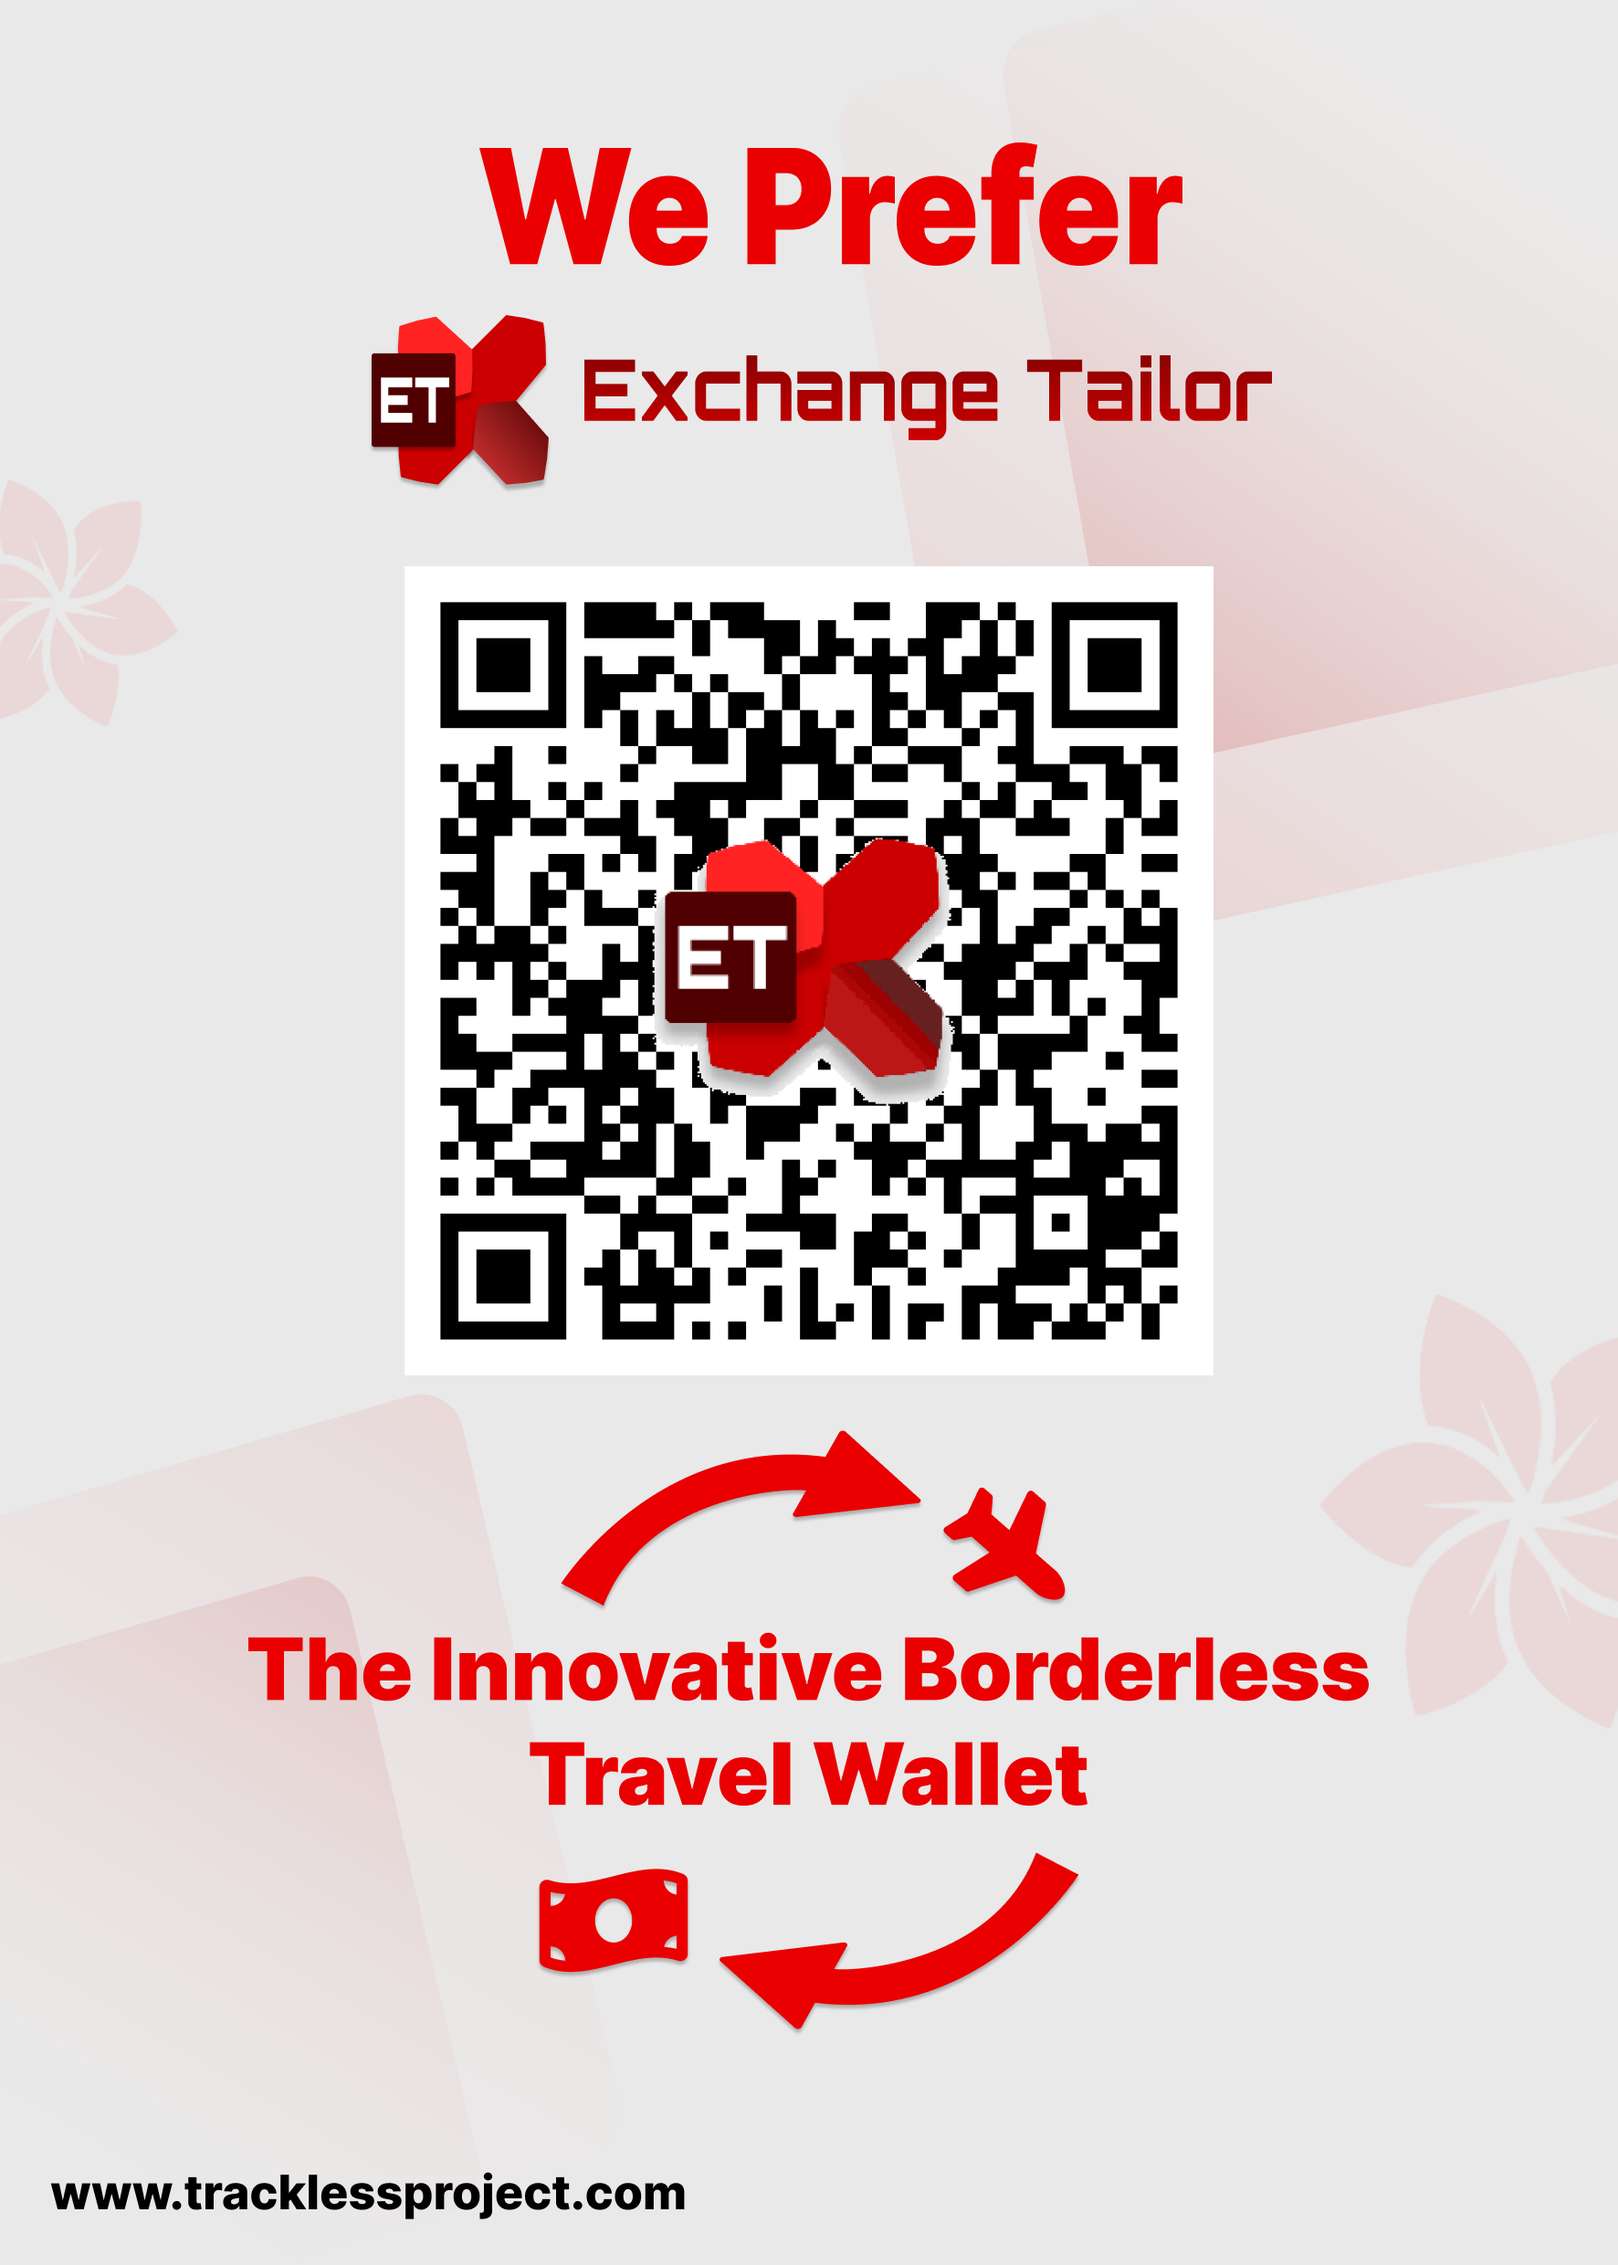
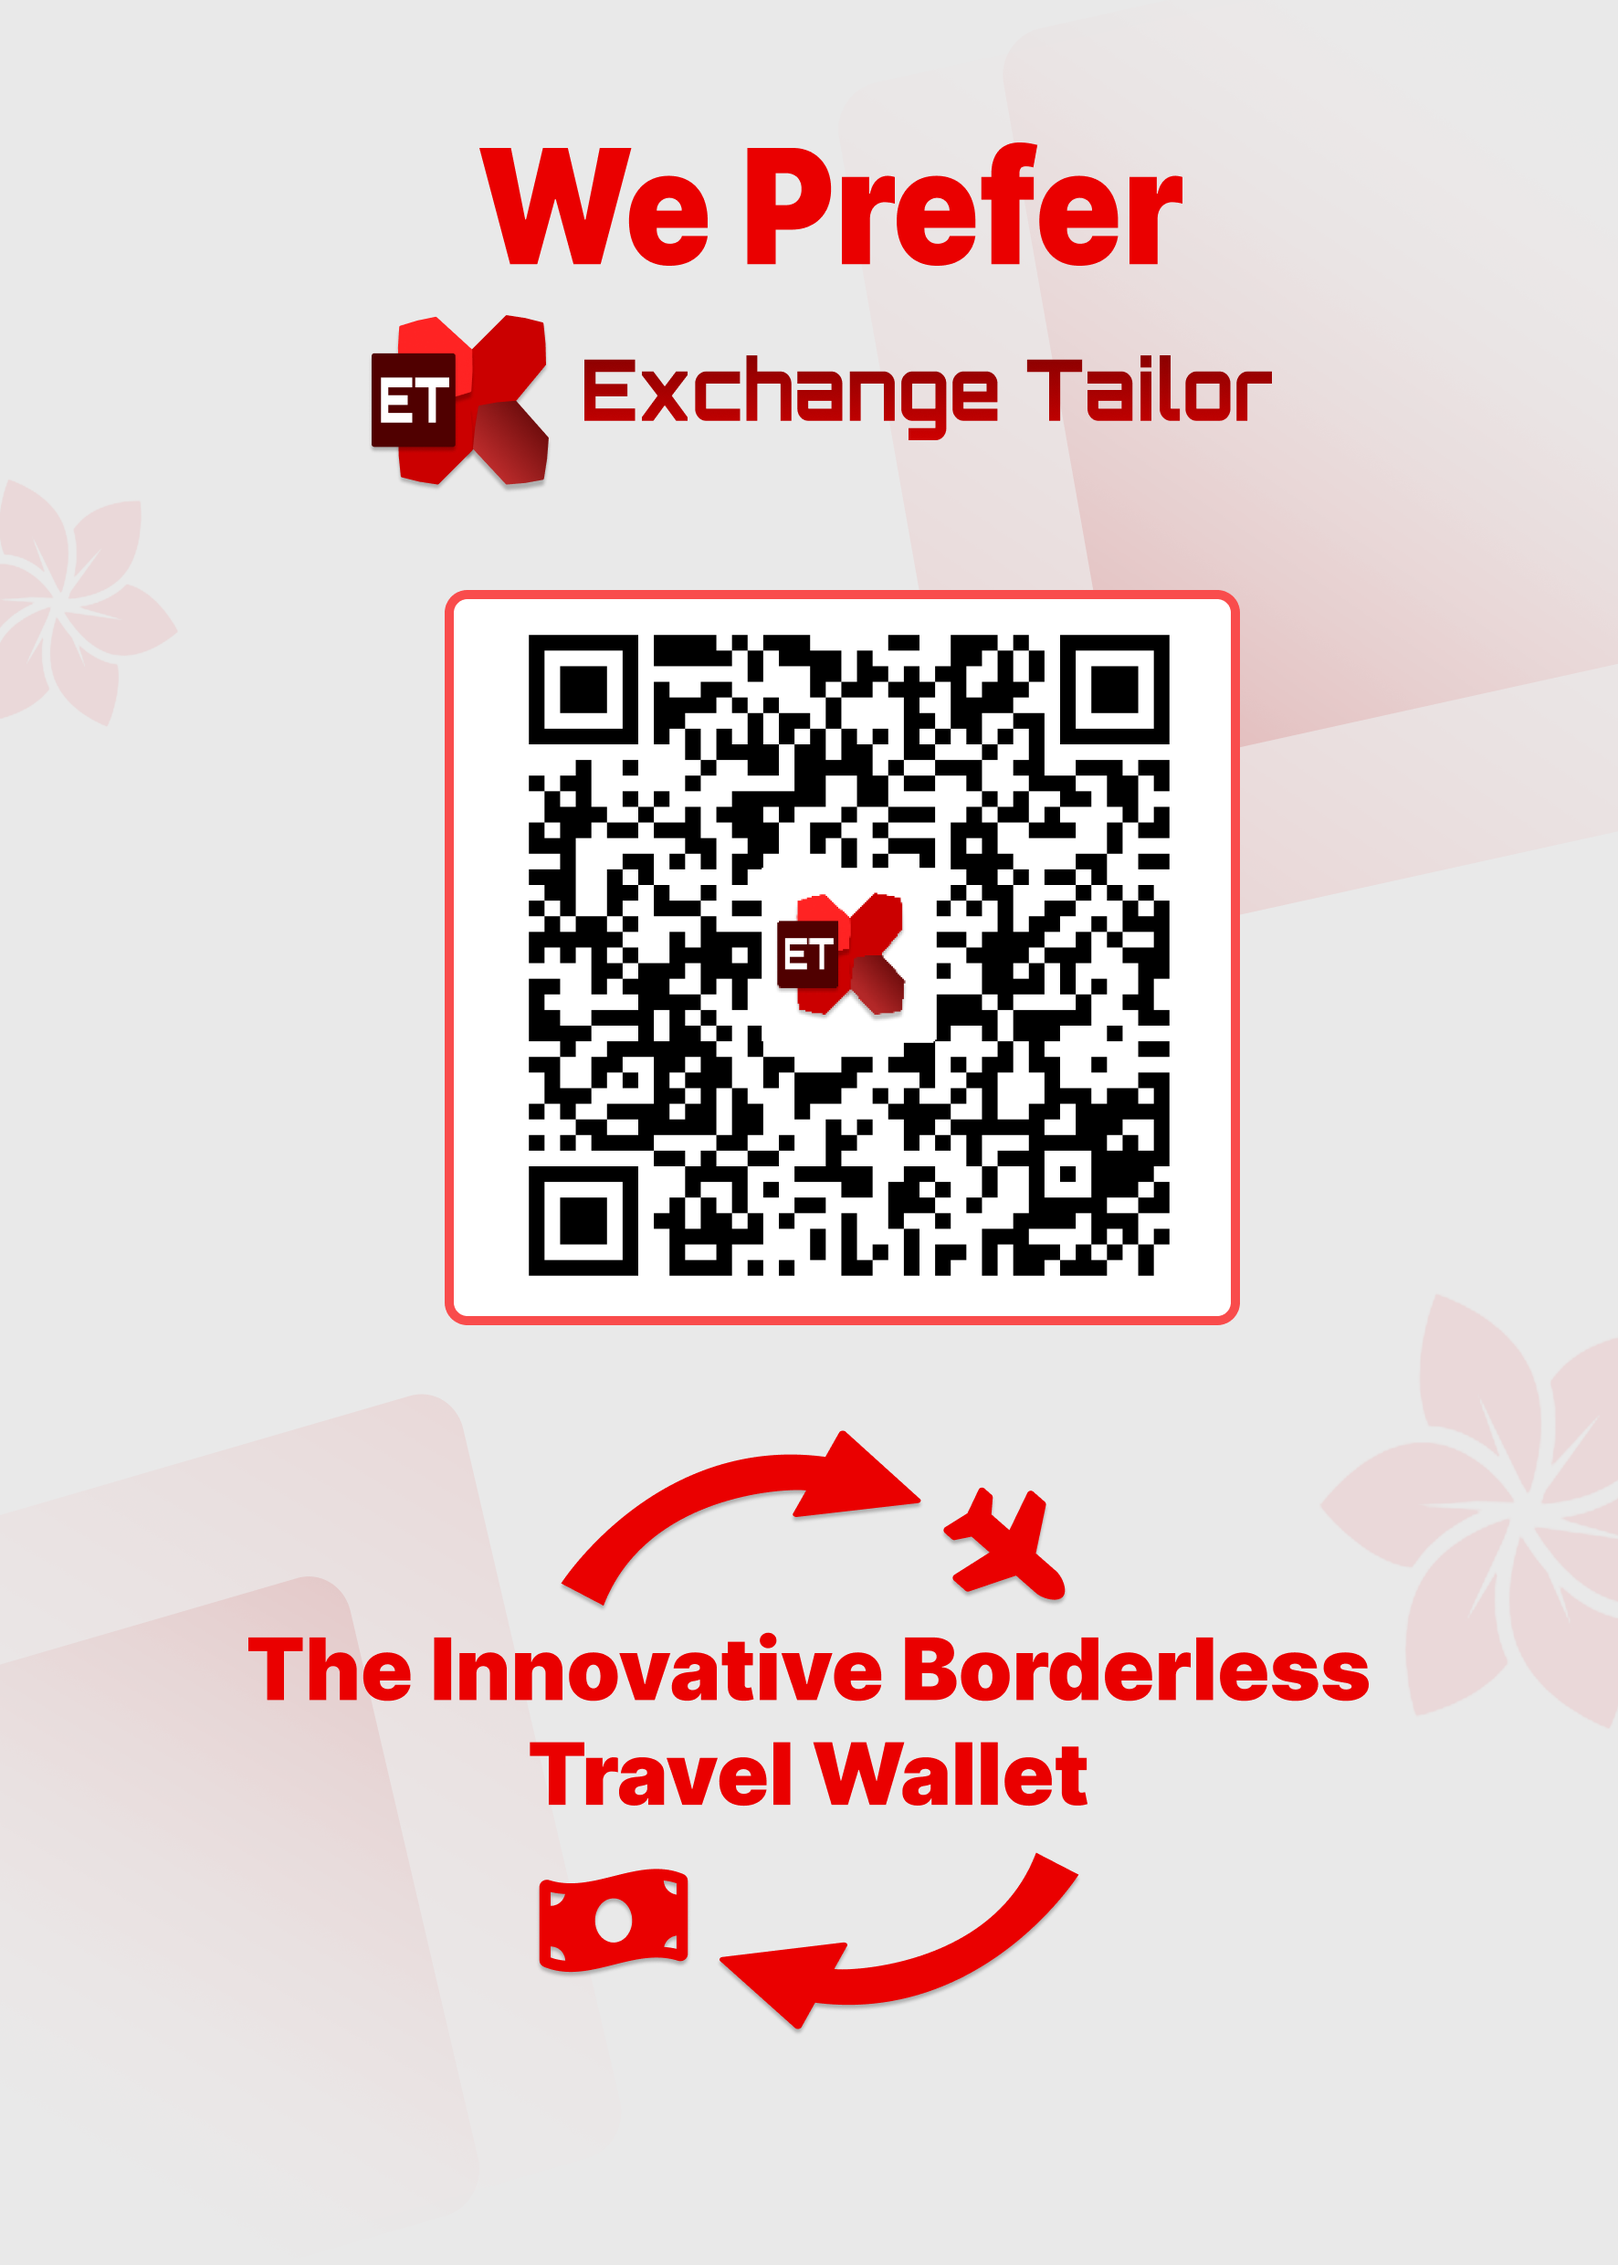
Update QRCode Tumbnail & Download

Changed region(s): [[0.2483, 0.2484, 0.776, 0.5899], [0.031, 0.9625, 0.4345, 0.9935]]

diff --git a/application/libraries/Ciqrcode.php b/application/libraries/Ciqrcode.php
@@ -74,7 +74,7 @@ class Ciqrcode
 		$QR = imagecreatefrompng(FCPATH . $dirr . $name . '.png');
 
 		// memulai menggambar logo dalam file qrcode
-		$logo = imagecreatefromstring(file_get_contents($logoMid));
+		$logo = imagecreatefromstring(file_get_contents(FCPATH . $logoMid));
 
 		imagecolortransparent($logo, imagecolorallocatealpha($logo, 0, 0, 0, 127));
 		imagealphablending($logo, false);
@@ -87,22 +87,22 @@ class Ciqrcode
 		$logo_height = imagesy($logo);
 
 		// Scale logo to fit in the QR Code
-		$logo_qr_width = $QR_width / 2.5;
+		$logo_qr_width = $QR_width / 4;
 		$scale = $logo_width / $logo_qr_width;
 		$logo_qr_height = $logo_height / $scale;
 
-		imagecopyresampled($QR, $logo, $QR_width / 3.25, $QR_height / 3.25, 0, 0, $logo_qr_width, $logo_qr_height, $logo_width, $logo_height);
+		imagecopyresampled($QR, $logo, $QR_width / 2.65, $QR_height / 2.65, 0, 0, $logo_qr_width, $logo_qr_height, $logo_width, $logo_height);
 
 		// Simpan kode QR lagi, dengan logo di atasnya
-		imagepng($QR, FCPATH . '/qr/ref/' . $name . 'wlogo.png');
+		imagepng($QR, FCPATH . $dirr . $name . 'wlogo.png');
 	}
 
-	public function createThumbnail($name)
+	public function createThumbnail($name, $dirrqr)
 	{
-		$QR = imagecreatefrompng(FCPATH . '/qr/ref/' . 'thumbnail.png');
+		$QR = imagecreatefrompng(FCPATH . '/assets/img/' . 'thumbnail.png');
 
 		// memulai menggambar logo dalam file qrcode
-		$logo = imagecreatefromstring(file_get_contents(base_url('/qr/ref/' . $name . 'wlogo.png')));
+		$logo = imagecreatefromstring(file_get_contents(FCPATH . $dirrqr . $name . 'wlogo.png'));
 
 		imagecolortransparent($logo, imagecolorallocatealpha($logo, 0, 0, 0, 127));
 		imagealphablending($logo, false);
@@ -115,14 +115,14 @@ class Ciqrcode
 		$logo_height = imagesy($logo);
 
 		// Scale logo to fit in the QR Code
-		$logo_qr_width = $QR_width / 2;
+		$logo_qr_width = $QR_width / 2.3;
 		$scale = $logo_width / $logo_qr_width;
 		$logo_qr_height = $logo_height / $scale;
 
-		imagecopyresampled($QR, $logo, $QR_width / 4, $QR_height / 4, 0, 0, $logo_qr_width, $logo_qr_height, $logo_width, $logo_height);
+		imagecopyresampled($QR, $logo, $QR_width / 3.25, $QR_height / 3.75, 0, 0, $logo_qr_width, $logo_qr_height, $logo_width, $logo_height);
 
 		// Simpan kode QR lagi, dengan logo di atasnya
-		imagepng($QR, FCPATH . '/qr/ref/' . $name . 'Thumbnail.png');
+		imagepng($QR, FCPATH . $dirrqr . $name . 'Thumbnail.png');
 	}
 
 	public function generate($params = array())

diff --git a/application/views/member/index.php b/application/views/member/index.php
@@ -28,7 +28,9 @@
                                         </div>
                                     </div>
                                 </div>
-                                <img src="<?= base_url() ?>qr/ref/<?= $_SESSION["ucode"] ?>.png" alt="QR" width="50" height="50" class="ms-auto mt-3">
+                                <a href="<?= base_url() ?>qr/ref/<?= $_SESSION["ucode"] ?>Thumbnail.png" download class="ms-auto mt-3">
+                                    <img src="<?= base_url() ?>qr/ref/<?= $_SESSION["ucode"] ?>.png" alt="QR" width="50" height="50">
+                                </a>
                             </div>
                             <div class="w-100 text-center">
                                 <div class="d-inline-block btn-head-crypto">

diff --git a/application/controllers/Auth.php b/application/controllers/Auth.php
@@ -257,7 +257,11 @@ class Auth extends CI_Controller
 			$refurl = base_url() . "auth/signup?ref=" . $result->message->refcode;
 			if (@getimagesize($srcref) == FALSE) {
 				$this->qrcoderef($refurl, $result->message->ucode);
-				$this->ciqrcode->addLogo($result->message->ucode, '/qr/ref/', base_url('assets/img/logo.png'));
+			}
+
+			$srcrefwlogo = base_url() . 'qr/ref/' . $result->message->ucode . 'wlogo.png';
+			if (@getimagesize($srcrefwlogo) == FALSE) {
+				$this->ciqrcode->addLogo($result->message->ucode, '/qr/ref/', '/assets/img/logoQR.png');
 			}
 
 			// if (@getimagesize($srcr) == FALSE) {

diff --git a/application/views/member/header.php b/application/views/member/header.php
@@ -24,7 +24,9 @@
                         </div>
                     </div>
                 </div>
-                <img src="<?= base_url() ?>qr/ref/<?= $_SESSION["ucode"] ?>.png" alt="QR" width="50" height="50" class="ms-auto mt-3">
+                <a href="<?= base_url() ?>qr/ref/<?= $_SESSION["ucode"] ?>Thumbnail.png" download class="ms-auto mt-3">
+                    <img src="<?= base_url() ?>qr/ref/<?= $_SESSION["ucode"] ?>.png" alt="QR" width="50" height="50">
+                </a>
             </div>
         </div>
         <div class="col-12 px-4 py-3">

diff --git a/application/controllers/Homepage.php b/application/controllers/Homepage.php
@@ -13,6 +13,11 @@ class Homepage extends CI_Controller
 
     public function index()
     {
+        $srcref = base_url() . 'qr/ref/' . $_SESSION["ucode"] . 'Thumbnail.png';
+        if (@getimagesize($srcref) == FALSE) {
+            $this->ciqrcode->createThumbnail($_SESSION["ucode"], 'qr/ref/');
+        }
+
         $mdata = array(
             "userid" => $_SESSION["user_id"]
         );
